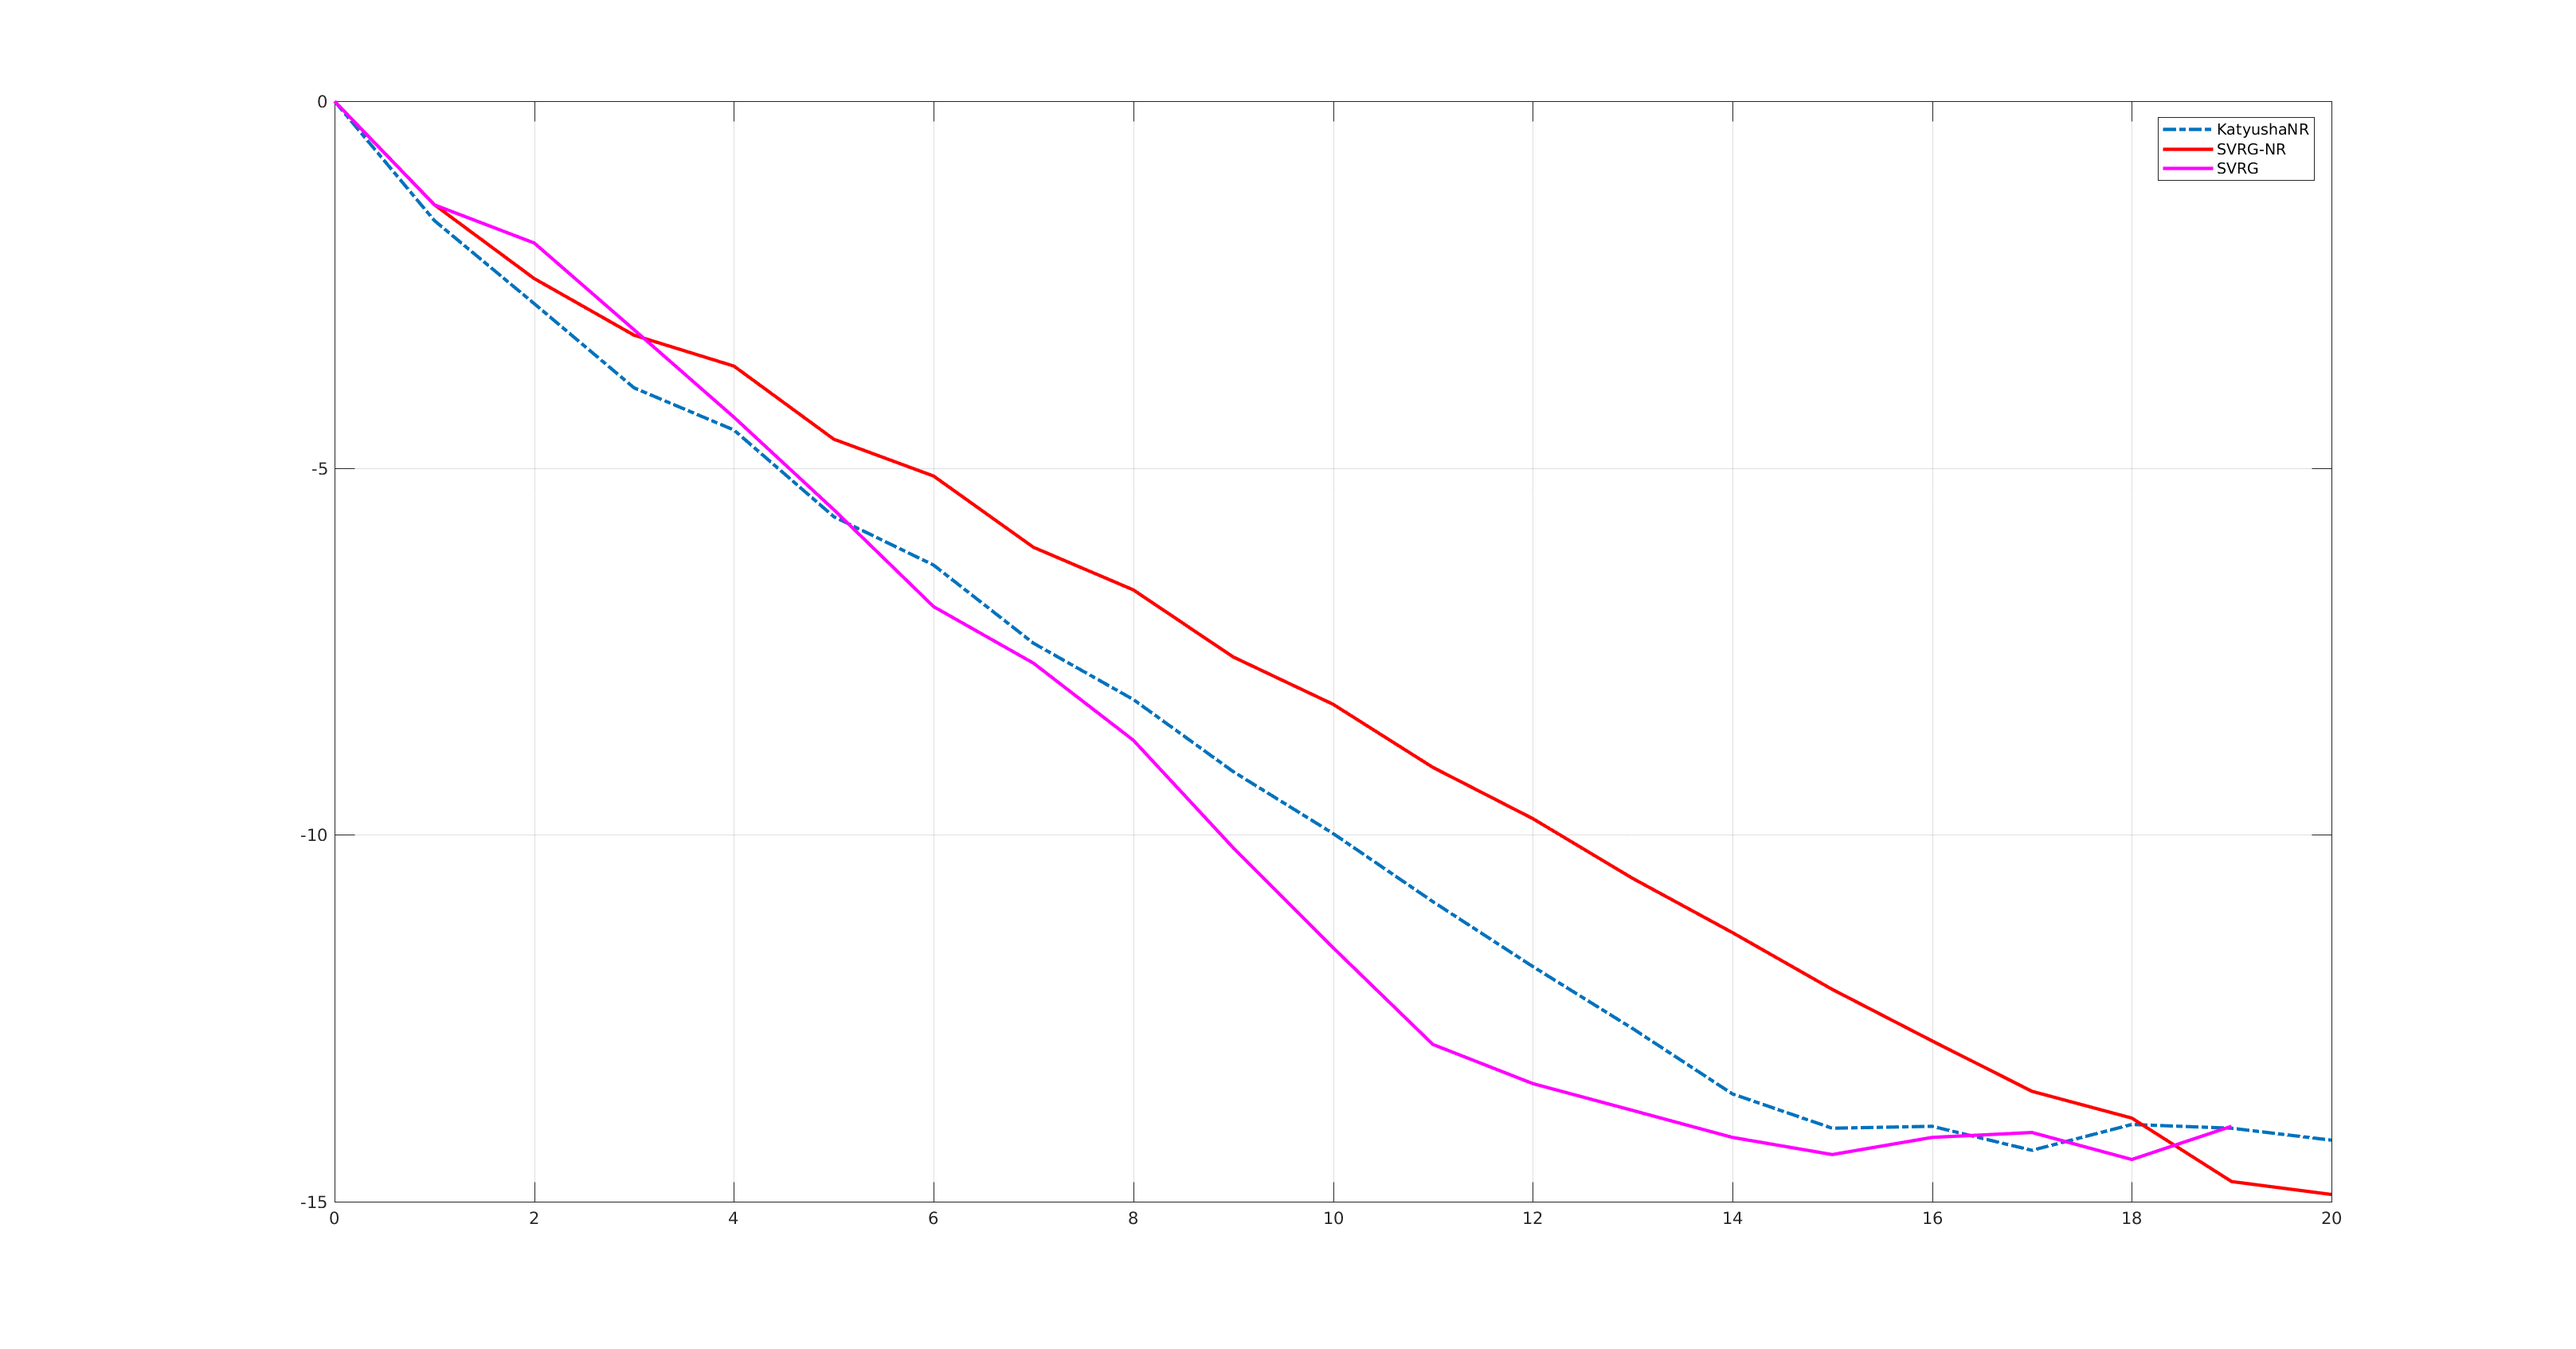
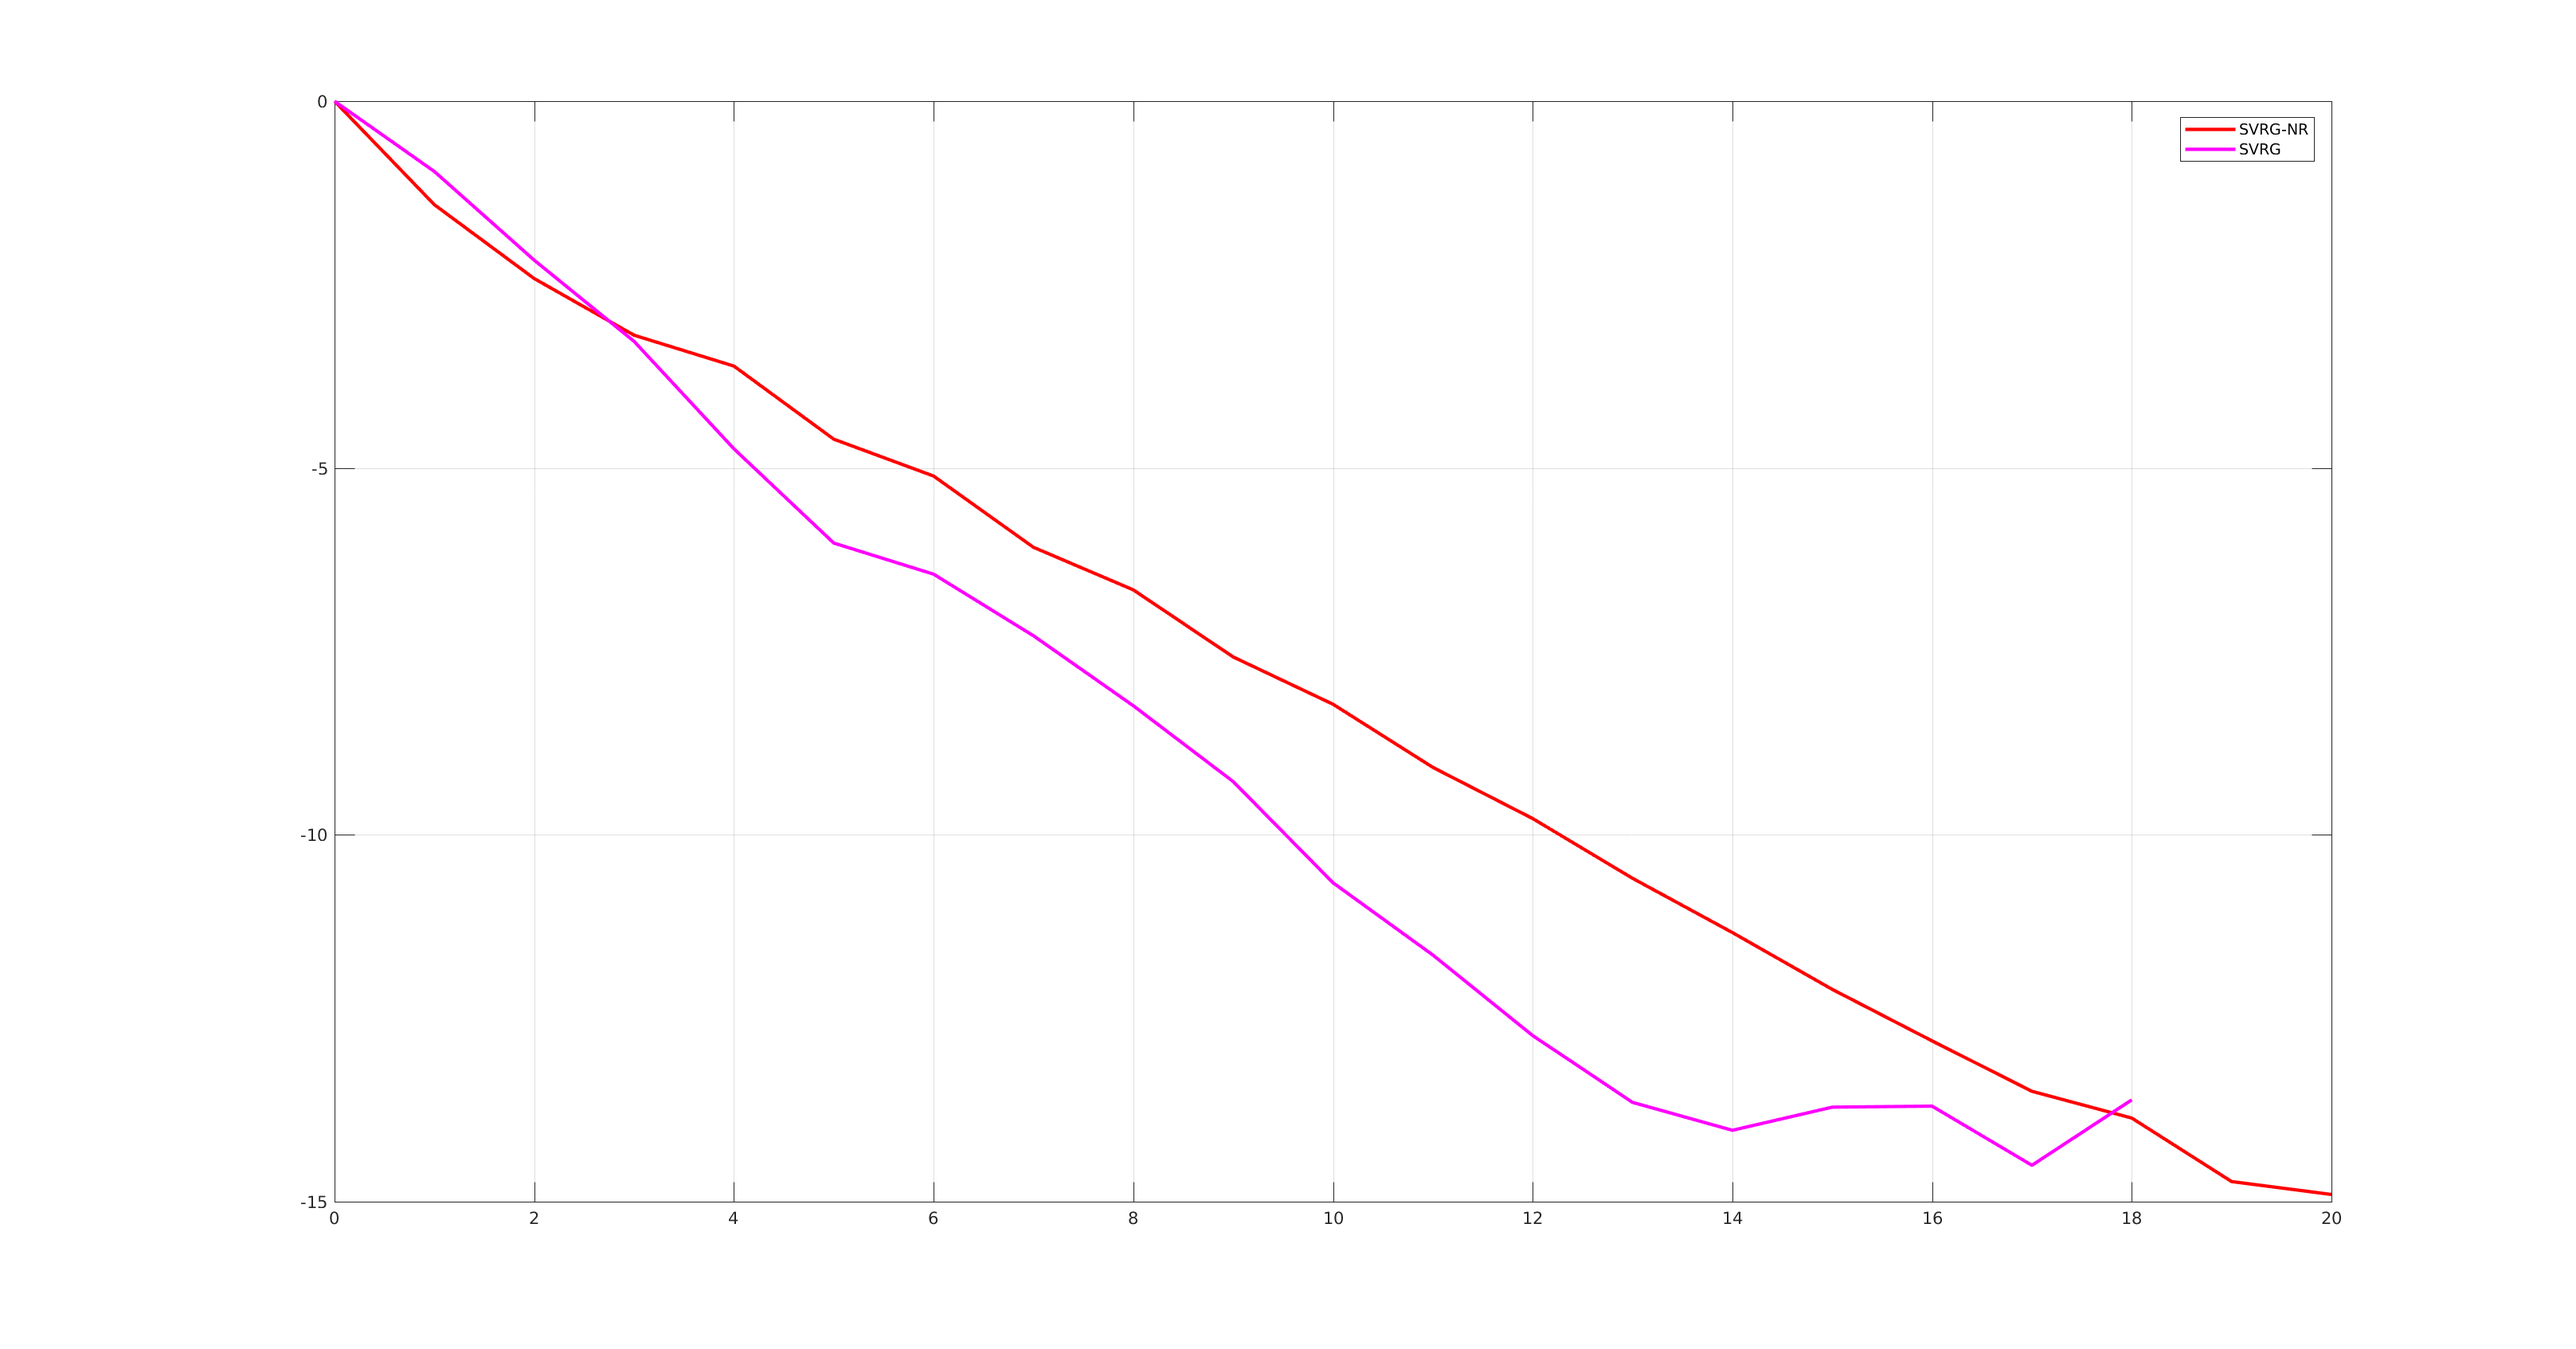
speedup done

diff --git a/main.m b/main.m
@@ -1,8 +1,8 @@
 % dataset : toy, covtype, rcv1, avazu, MNIST.
-dataset = 'MNIST';
-passes = 25;
-factor = 5;
-lambda = 1e-4;
+dataset = 'covtype';
+passes = 20;
+factor = 1/2;
+lambda = 1e-5;
 
 %% preliminaries
 [Xtrain, Xtest, ytrain, ytest] = LoadDataset(dataset);  % load dataset
